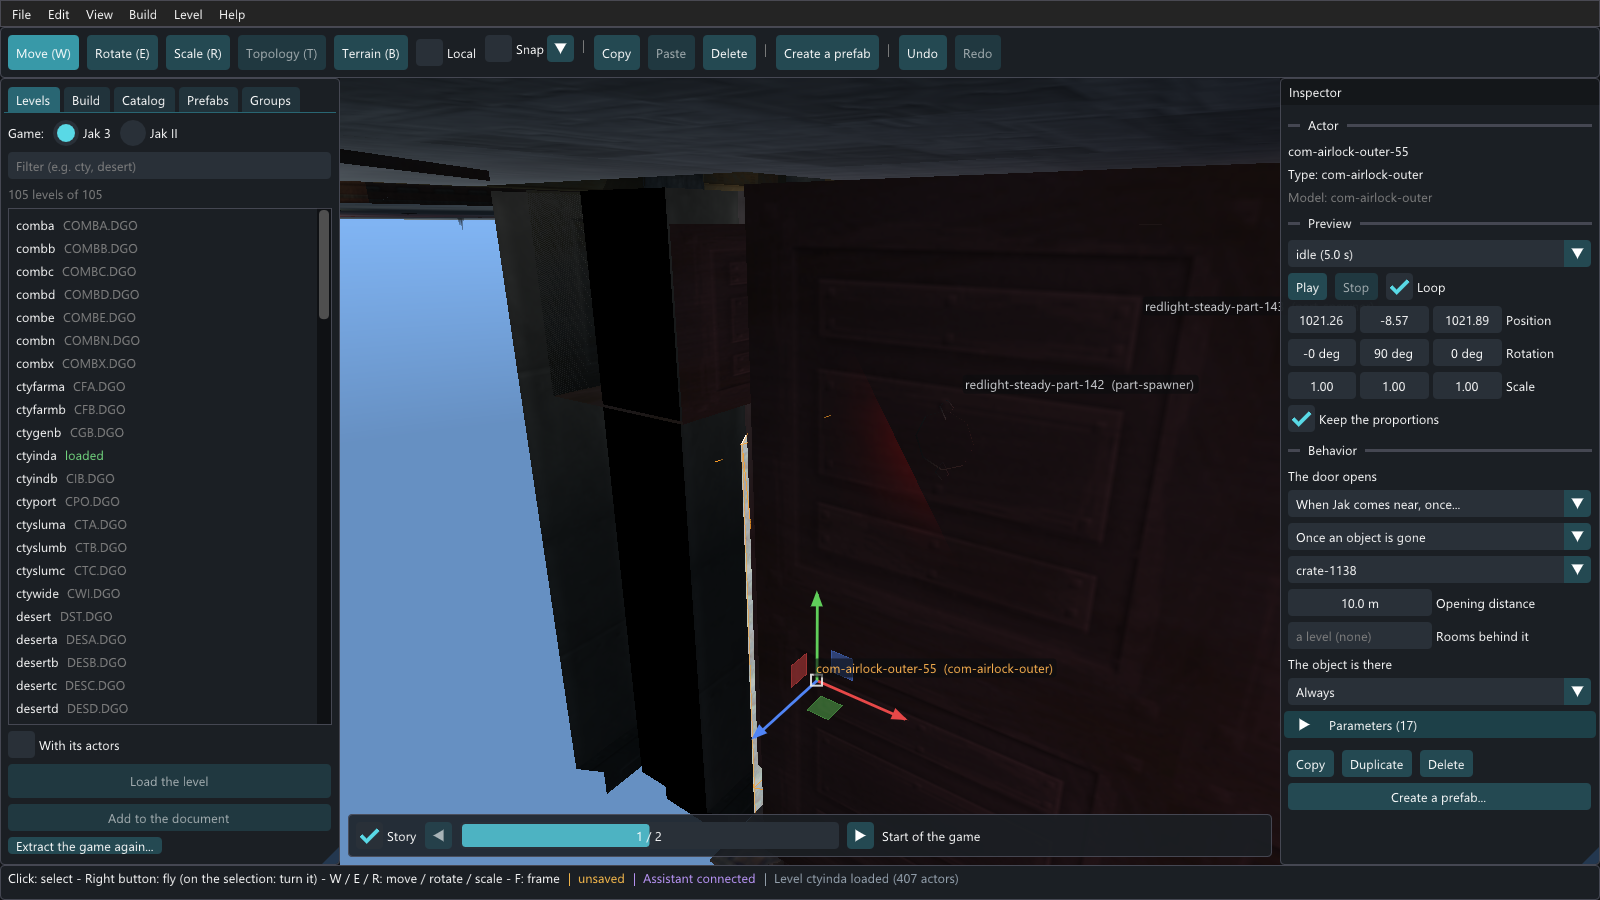
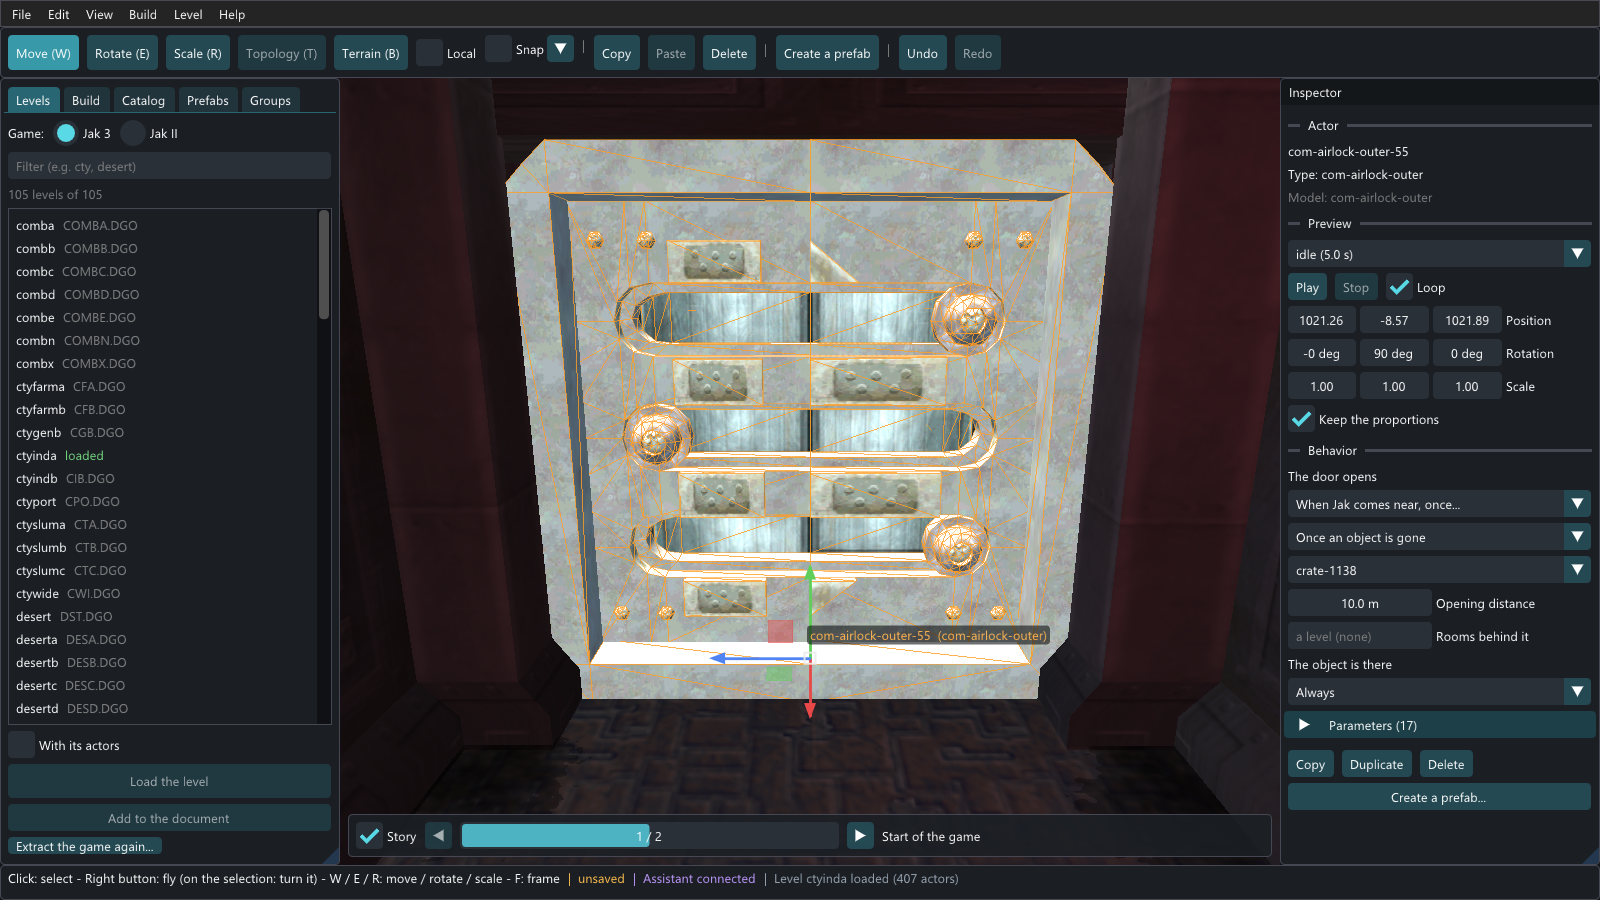
fix: a hole is an opening with the void right behind it, not a passage to more ground (AI-assisted)
find_gaps called "gap" a ray slipping between two pieces and running on over
open ground to the end of the paving: behind the opening there was more
ground, the void being only where that ground ends. Such a ray is now an open
edge, placed where the ground ends; a gap keeps the void right behind it (a
slit in a floor, a wall missing a corner). A facade closed in the middle of a
street then shows no hole at street level (3 false ones before).

The guide's example answer and the descriptions follow; the pictures of the
holes and of the airlock (seen from outside its walls) are made again.

diff --git a/src/app/mcp.cpp b/src/app/mcp.cpp
@@ -427,8 +427,9 @@ json tools() {
       tool("find_gaps",
            "Finds where a player walking the level would see the void (nothing drawn: a visual bug in the game): "
            "from points of the ground every few meters, at the height of Jak's eyes, rays around and downward; a "
-           "ray that meets nothing is a view into the void. Each spot: kind 'gap' (a hole between pieces: fill it) "
-           "or 'edge' (an open edge of the region: close it unless the player cannot go near), where it is (at), "
+           "ray that meets nothing is a view into the void. Each spot: kind 'gap' (a hole between pieces, the void "
+           "right behind it: fill it) or 'edge' (where the ground ends, seen directly or through a passage: close it "
+           "unless the player cannot go near), where it is (at), "
            "where it is seen from (seen_from, direction: give them to set_camera to look at it) and how many rays "
            "went through. Run it after building and fix every gap (rule 1 of the guide). Shown in the editor too.",
            {{"box", {{"type", "array"}, {"description", "[[x, y, z], [x, y, z]]: the region the player can walk"}}},

diff --git a/src/scene/gaps.cpp b/src/scene/gaps.cpp
@@ -161,7 +161,16 @@ GapReport find_gaps(Scene& scene, const GapOptions& o) {
           s.direction = ray.d;
           s.edge = !across && !along;
           if (!s.edge) {
-            s.at = ray.at(near);
+            // what lies behind the opening: ground (a passage between two pieces: the void is farther,
+            // where that ground ends: an open edge there) or nothing (a hole)
+            bool ground_behind = false;
+            float t = near + 1.f;
+            for (; t < o.reach; t += 2.f) {
+              if (caster.cast(Ray{ray.at(t), {0, -1, 0}}, o.eye + 3.f) >= o.eye + 3.f) break;
+              ground_behind = true;
+            }
+            s.edge = ground_behind;
+            s.at = ray.at(ground_behind ? t : near);
           } else {
             // an open edge: where the ray leaves the region
             const AABB big = r.expanded(1.f);

diff --git a/src/scene/gaps.h b/src/scene/gaps.h
@@ -3,8 +3,9 @@
 // Holes in the decor: where a player walking the level would see the void (nothing drawn behind,
 // the screen's background), a visual bug in the game. From points of the ground every few meters
 // (where Jak's eyes are), rays go around and downward; a ray that meets nothing is a view into the
-// void. The rays around it tell where the hole is: a gap between pieces (they hit something near:
-// the hole is there), or an open edge of the level (they all go through).
+// void. The rays around it tell where the hole is: a gap between pieces (something on both sides of
+// it, the void right behind), or an open edge (the ground ends: seen directly, or through a passage
+// between pieces, then where that ground ends).
 
 #include <vector>
 

diff --git a/tools/capture_docs.py b/tools/capture_docs.py
@@ -387,7 +387,9 @@ def behaviors(args, e):
         e.call('set_actor', {'id': door['id'], 'behavior': {'open': 'when', 'distance': 10,
                                                             'when': {'when': 'gone', 'arg': crates[0]['name']}}})
         e.call('select', {'ids': [door['id']]})
-        e.call('set_camera', {'frame': [door['id']], 'yaw_deg': 35, 'pitch_deg': -20})
+        # in front of the door, outside its walls (framing it puts the camera inside them)
+        c = [door['position'][0], door['position'][1] + 5, door['position'][2]]
+        e.call('set_camera', {'position': [c[0] + 16, c[1] + 4, c[2]], 'look_at': c})
         e.ui([AWAY, wait(30)], shot=out('behaviors', 'airlock.png'))
 
 

diff --git a/docs/mcp-agent-guide.md b/docs/mcp-agent-guide.md
@@ -144,14 +144,16 @@ height of Jak's eyes, all around and downward. A ray that meets nothing is a vie
 ```
 
 ```json
-{"gaps": 33, "edges": 24, "viewpoints": 108, "rays": 31104,
- "spots": [{"kind": "gap", "at": [20.1, 0.5, -11.2], "seen_from": [17.5, 2.1, -12.5],
-            "direction": [0.92, -0.09, -0.38], "rays": 63}, "..."]}
+{"gaps": 19, "edges": 30, "viewpoints": 108, "rays": 31104,
+ "spots": [{"kind": "gap", "at": [20.06, 0.53, -11.17], "seen_from": [-18.5, 2.1, -3.5],
+            "direction": [0.98, -0.04, -0.195], "rays": 77}, "..."]}
 ```
 
-- `kind: "gap"`: a hole between pieces (surfaces on both sides of it). **Fix every one.**
-- `kind: "edge"`: an open edge of the region (nothing beyond it): close it with a wall, a building,
-  a railing, unless the player can never get near it.
+- `kind: "gap"`: a hole between pieces (surfaces on both sides of it, the void right behind it).
+  **Fix every one.**
+- `kind: "edge"`: an open edge, where the ground ends in the void (seen directly, or through a
+  passage between pieces: then `at` is where that ground ends): close it with a wall, a building, a
+  railing, unless the player can never get near it.
 - `seen_from` and `direction`: where the player would see it from. Look there:
   `set_camera` with `position: seen_from` and `look_at: at`, then `capture_view`.
 - `rays`: how many rays went through: the larger, the more visible.
@@ -290,10 +292,10 @@ create_prefab {"ids": [...the assembly's ids...], "name": "spargus-house",
 
 ```text
 find_gaps {"ids": [...what you built...]}
-  -> {"kind": "gap", "at": [20.1, 0.5, -11.2], "seen_from": [17.5, 2.1, -12.5], ...}
-set_camera {"position": [17.5, 2.1, -12.5], "look_at": [20.1, 0.5, -11.2]}
+  -> {"kind": "gap", "at": [20.06, 0.53, -11.17], "seen_from": [-18.5, 2.1, -3.5], ...}
+set_camera {"position": [-18.5, 2.1, -3.5], "look_at": [20.06, 0.53, -11.17]}
 capture_view                                  -> see it
-find_nodes {"near": [20.1, 0.5, -11.2], "radius": 4}   -> the pieces around it
+find_nodes {"near": [20.06, 0.53, -11.17], "radius": 4}   -> the pieces around it
 transform_nodes {"ids": [the wall], "scale_by": [1.05, 1, 1]}   or   place a floor/wall shape over it
 find_gaps {"ids": [...]}                      -> again, until it is gone
 ```
